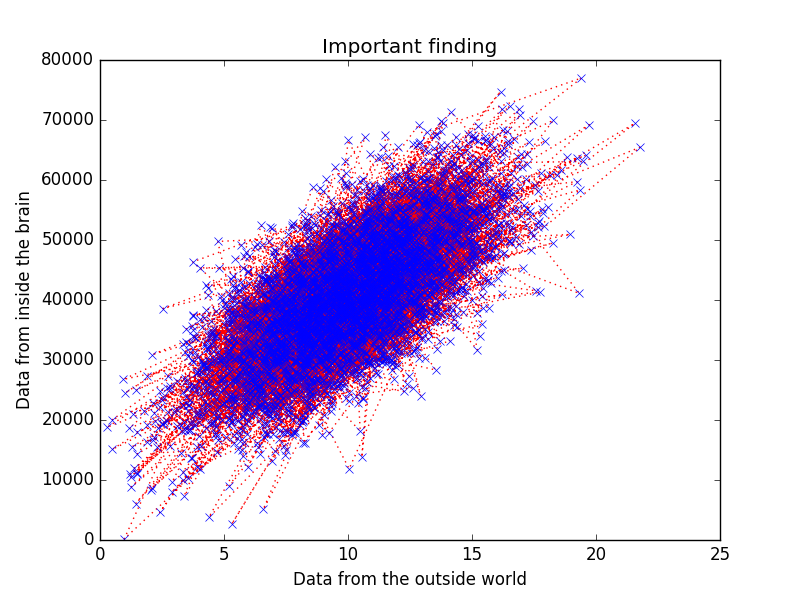
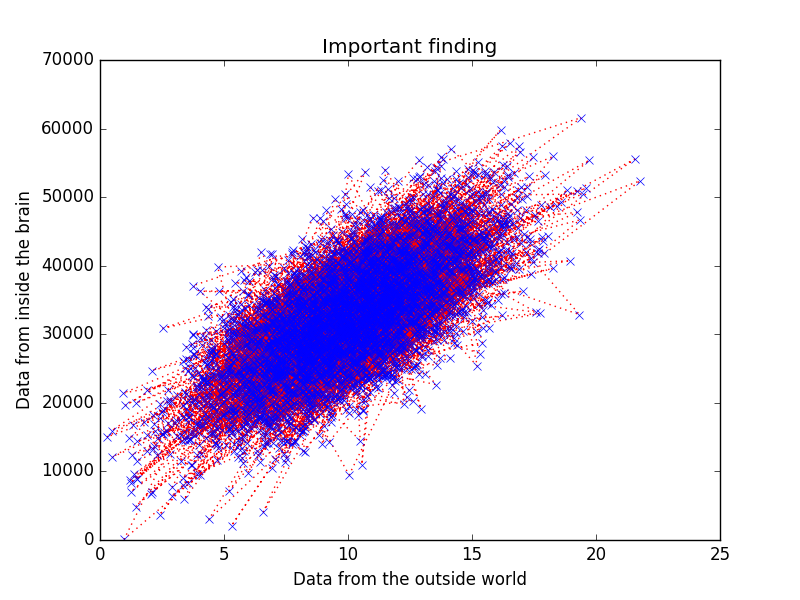
stage-analysis

diff --git a/staging/clever_analysis.py b/staging/clever_analysis.py
@@ -5,6 +5,7 @@ import matplotlib.pyplot as plt
 
 FUDGE = 106
 MORE_FUDGE = 2.0
+NUDGE_FUDGE = 1.25
 
 # Load data from the brain
 data = np.loadtxt('expensive_data.csv', delimiter=',')
@@ -14,8 +15,8 @@ from_world, from_brain = data.T
 
 # Process data
 from_brain_processed = np.log(from_brain) * FUDGE * np.e ** np.pi
-# Apply the new factor
-from_brain_processed = from_brain_processed / MORE_FUDGE
+# Apply the new factor(s)
+from_brain_processed = from_brain_processed / MORE_FUDGE / NUDGE_FUDGE
 
 # Make plot
 plt.plot(from_world, from_brain_processed, 'r:')
